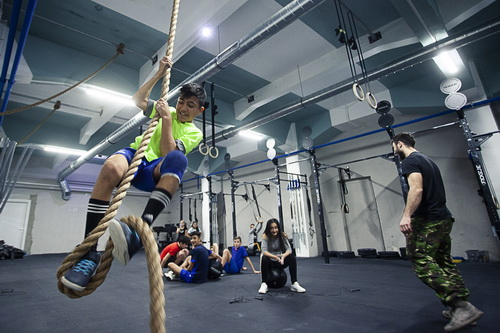
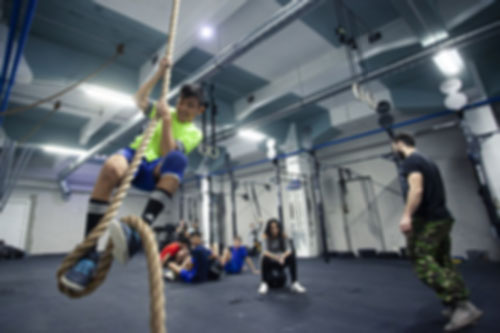
Added donate button, blurred background image and some text to home page

diff --git a/style.css b/style.css
@@ -39,11 +39,45 @@ nav img{
     content: '';
     width: 0%;
     height: 2px;
-    background: #f44336;
+    background: #EA556F;
     display: block;
     margin: auto;
     transition: 0.5s;
 }
 .nav-links ul li:hover::after{
     width: 100%;
+}
+.text-box{
+    width: 90%;
+    color: #fff;
+    position: absolute;
+    top: 50%;
+    left: 50%;
+    transform: translate(-50%,-50%);
+    text-align: center;
+}
+.text-box h1{
+    font-size: 62px;
+}
+.text-box p{
+    margin: 10px 0 40px;
+    font-size: 14px;
+    color: #fff;
+}
+.hero-btn{
+    display: inline-block;
+    text-decoration: none;
+    color: #fff;
+    border: 1px solid #fff;
+    border-radius: 25px;
+    padding: 12px 34px;
+    font-size: 13px;
+    background: transparent;
+    position: relative;
+    cursor: pointer;
+}
+.hero-btn:hover{
+    border: 1px solid #EA556F;
+    background: #EA556F;
+    transition: 1s;
 }

diff --git a/home.html b/home.html
@@ -23,6 +23,11 @@
                 </div>
             </nav>
 
+            <div class="text-box">
+                <h1>The Forge Academy</h1>
+                <p>Creăm contexte care le facilitează copiilor și adolescenților descoperirea și creșterea <br>puterii personale prin intermediul sportului.</p>
+                <a href="" class="hero-btn">Donează și tu</a>
+            </div>
 
         </section>
 
